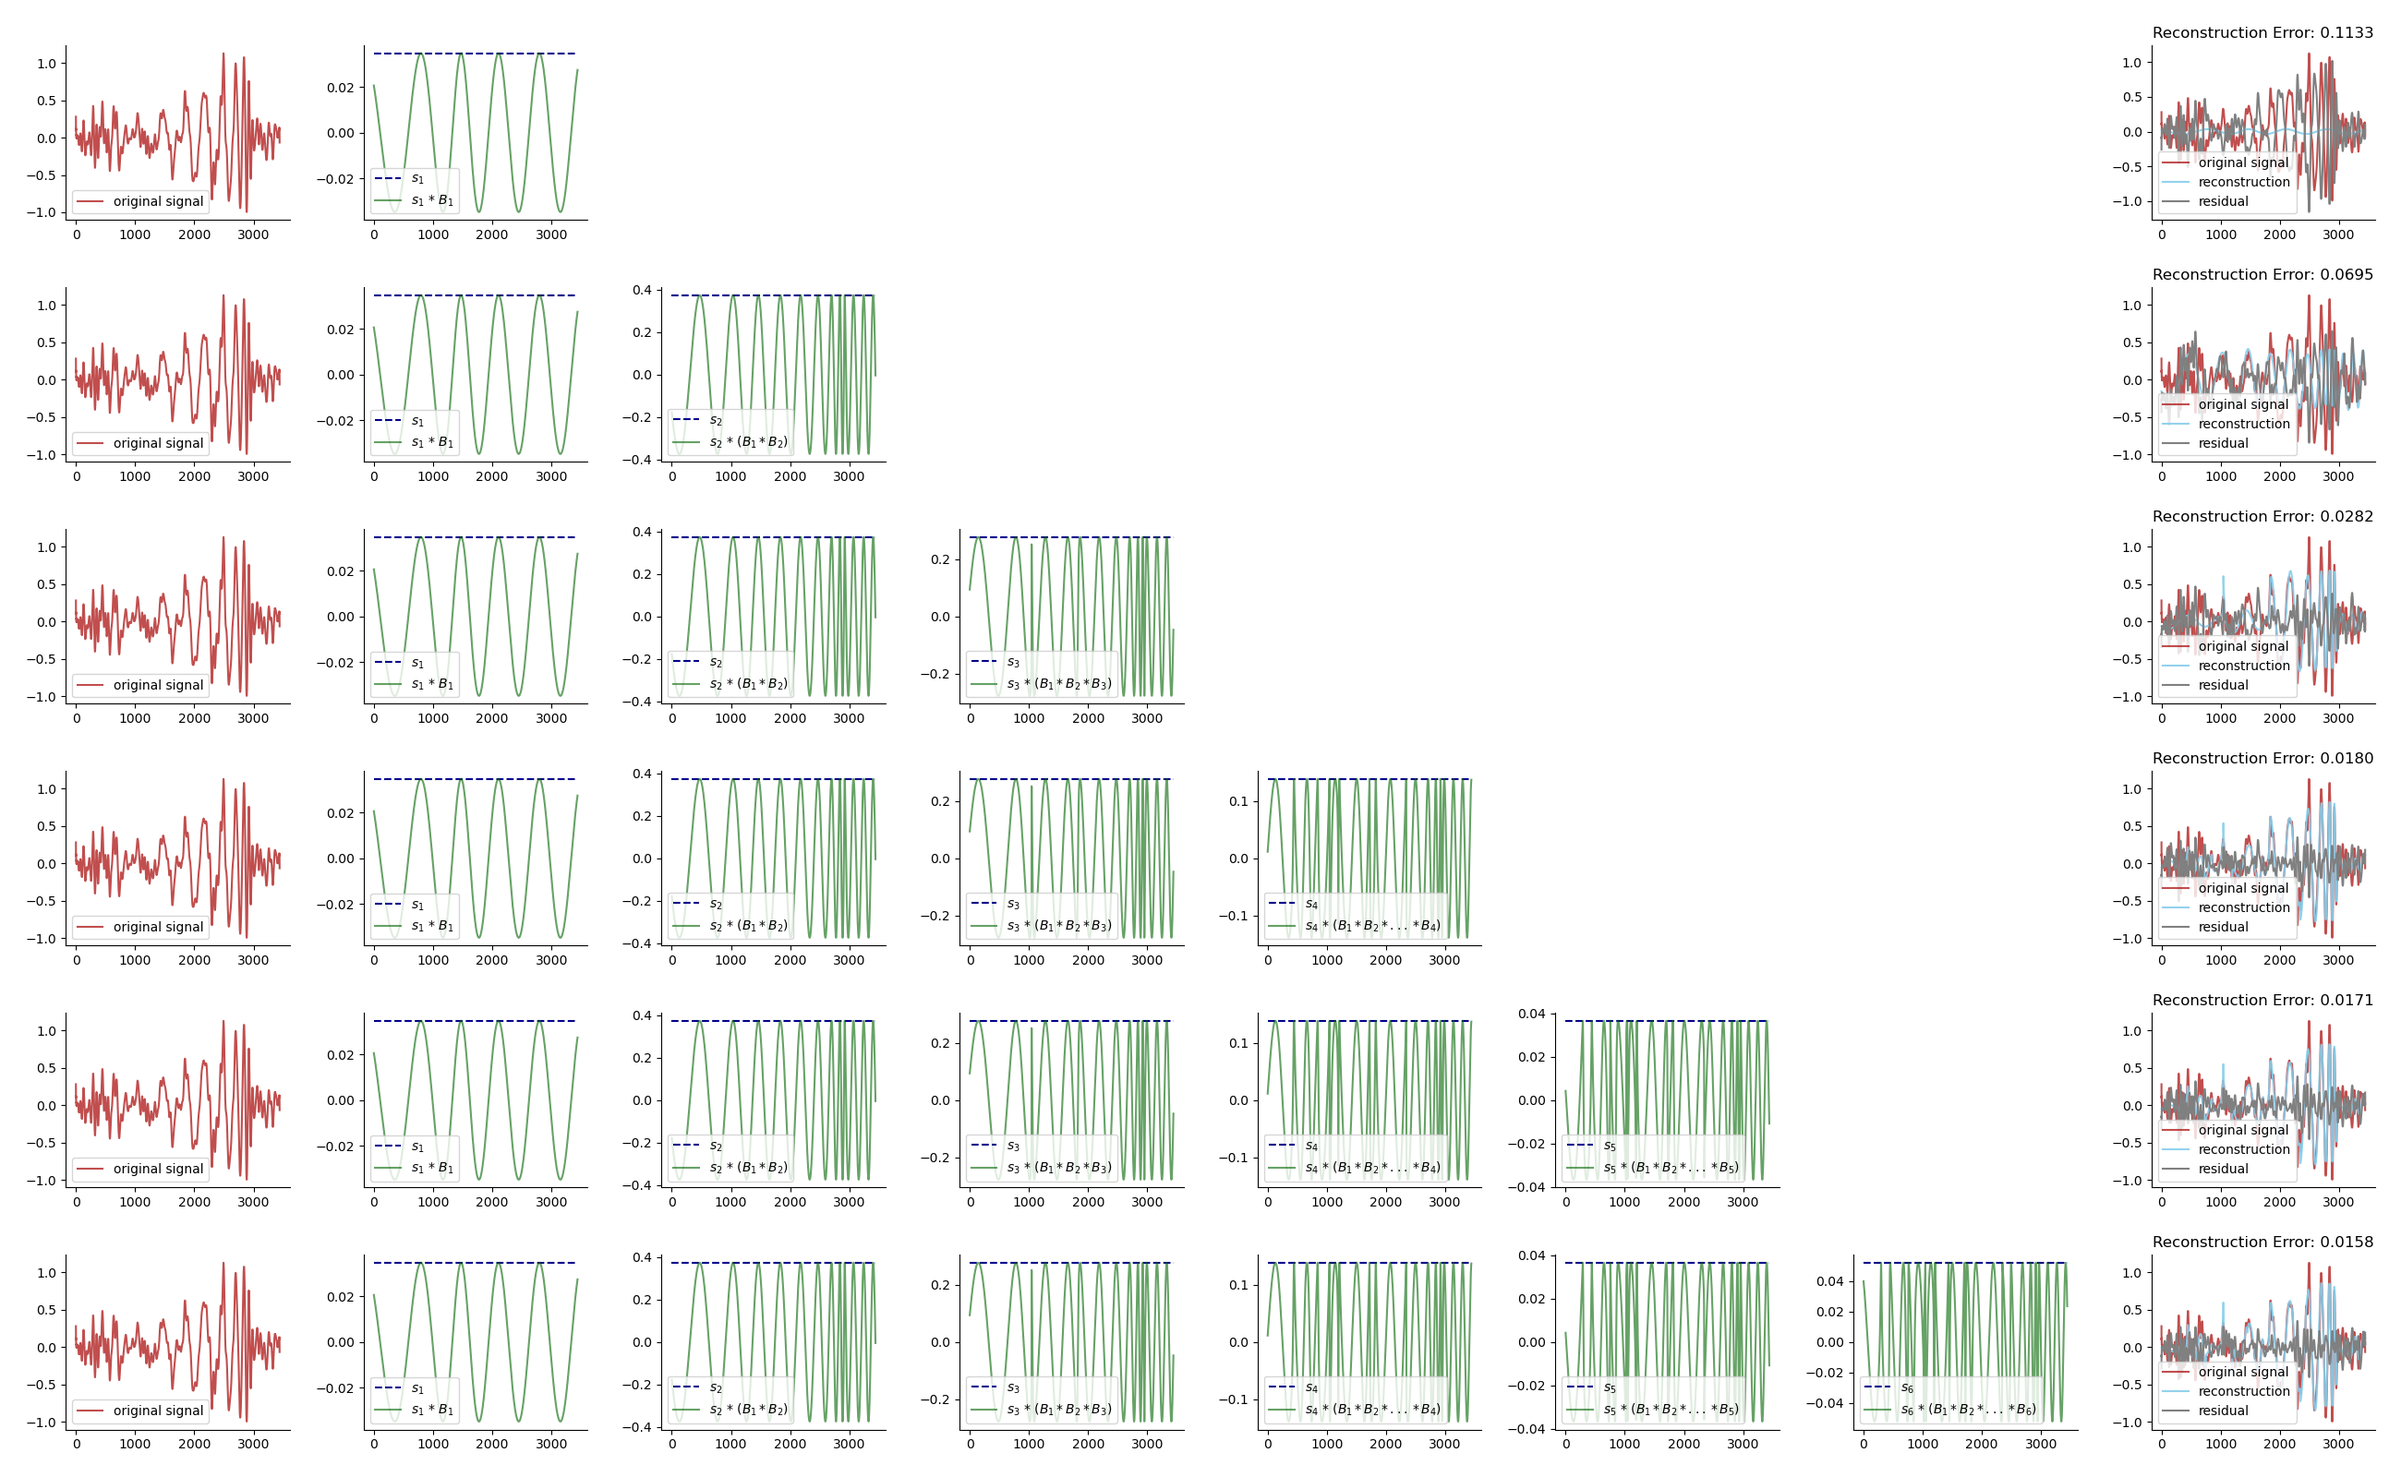
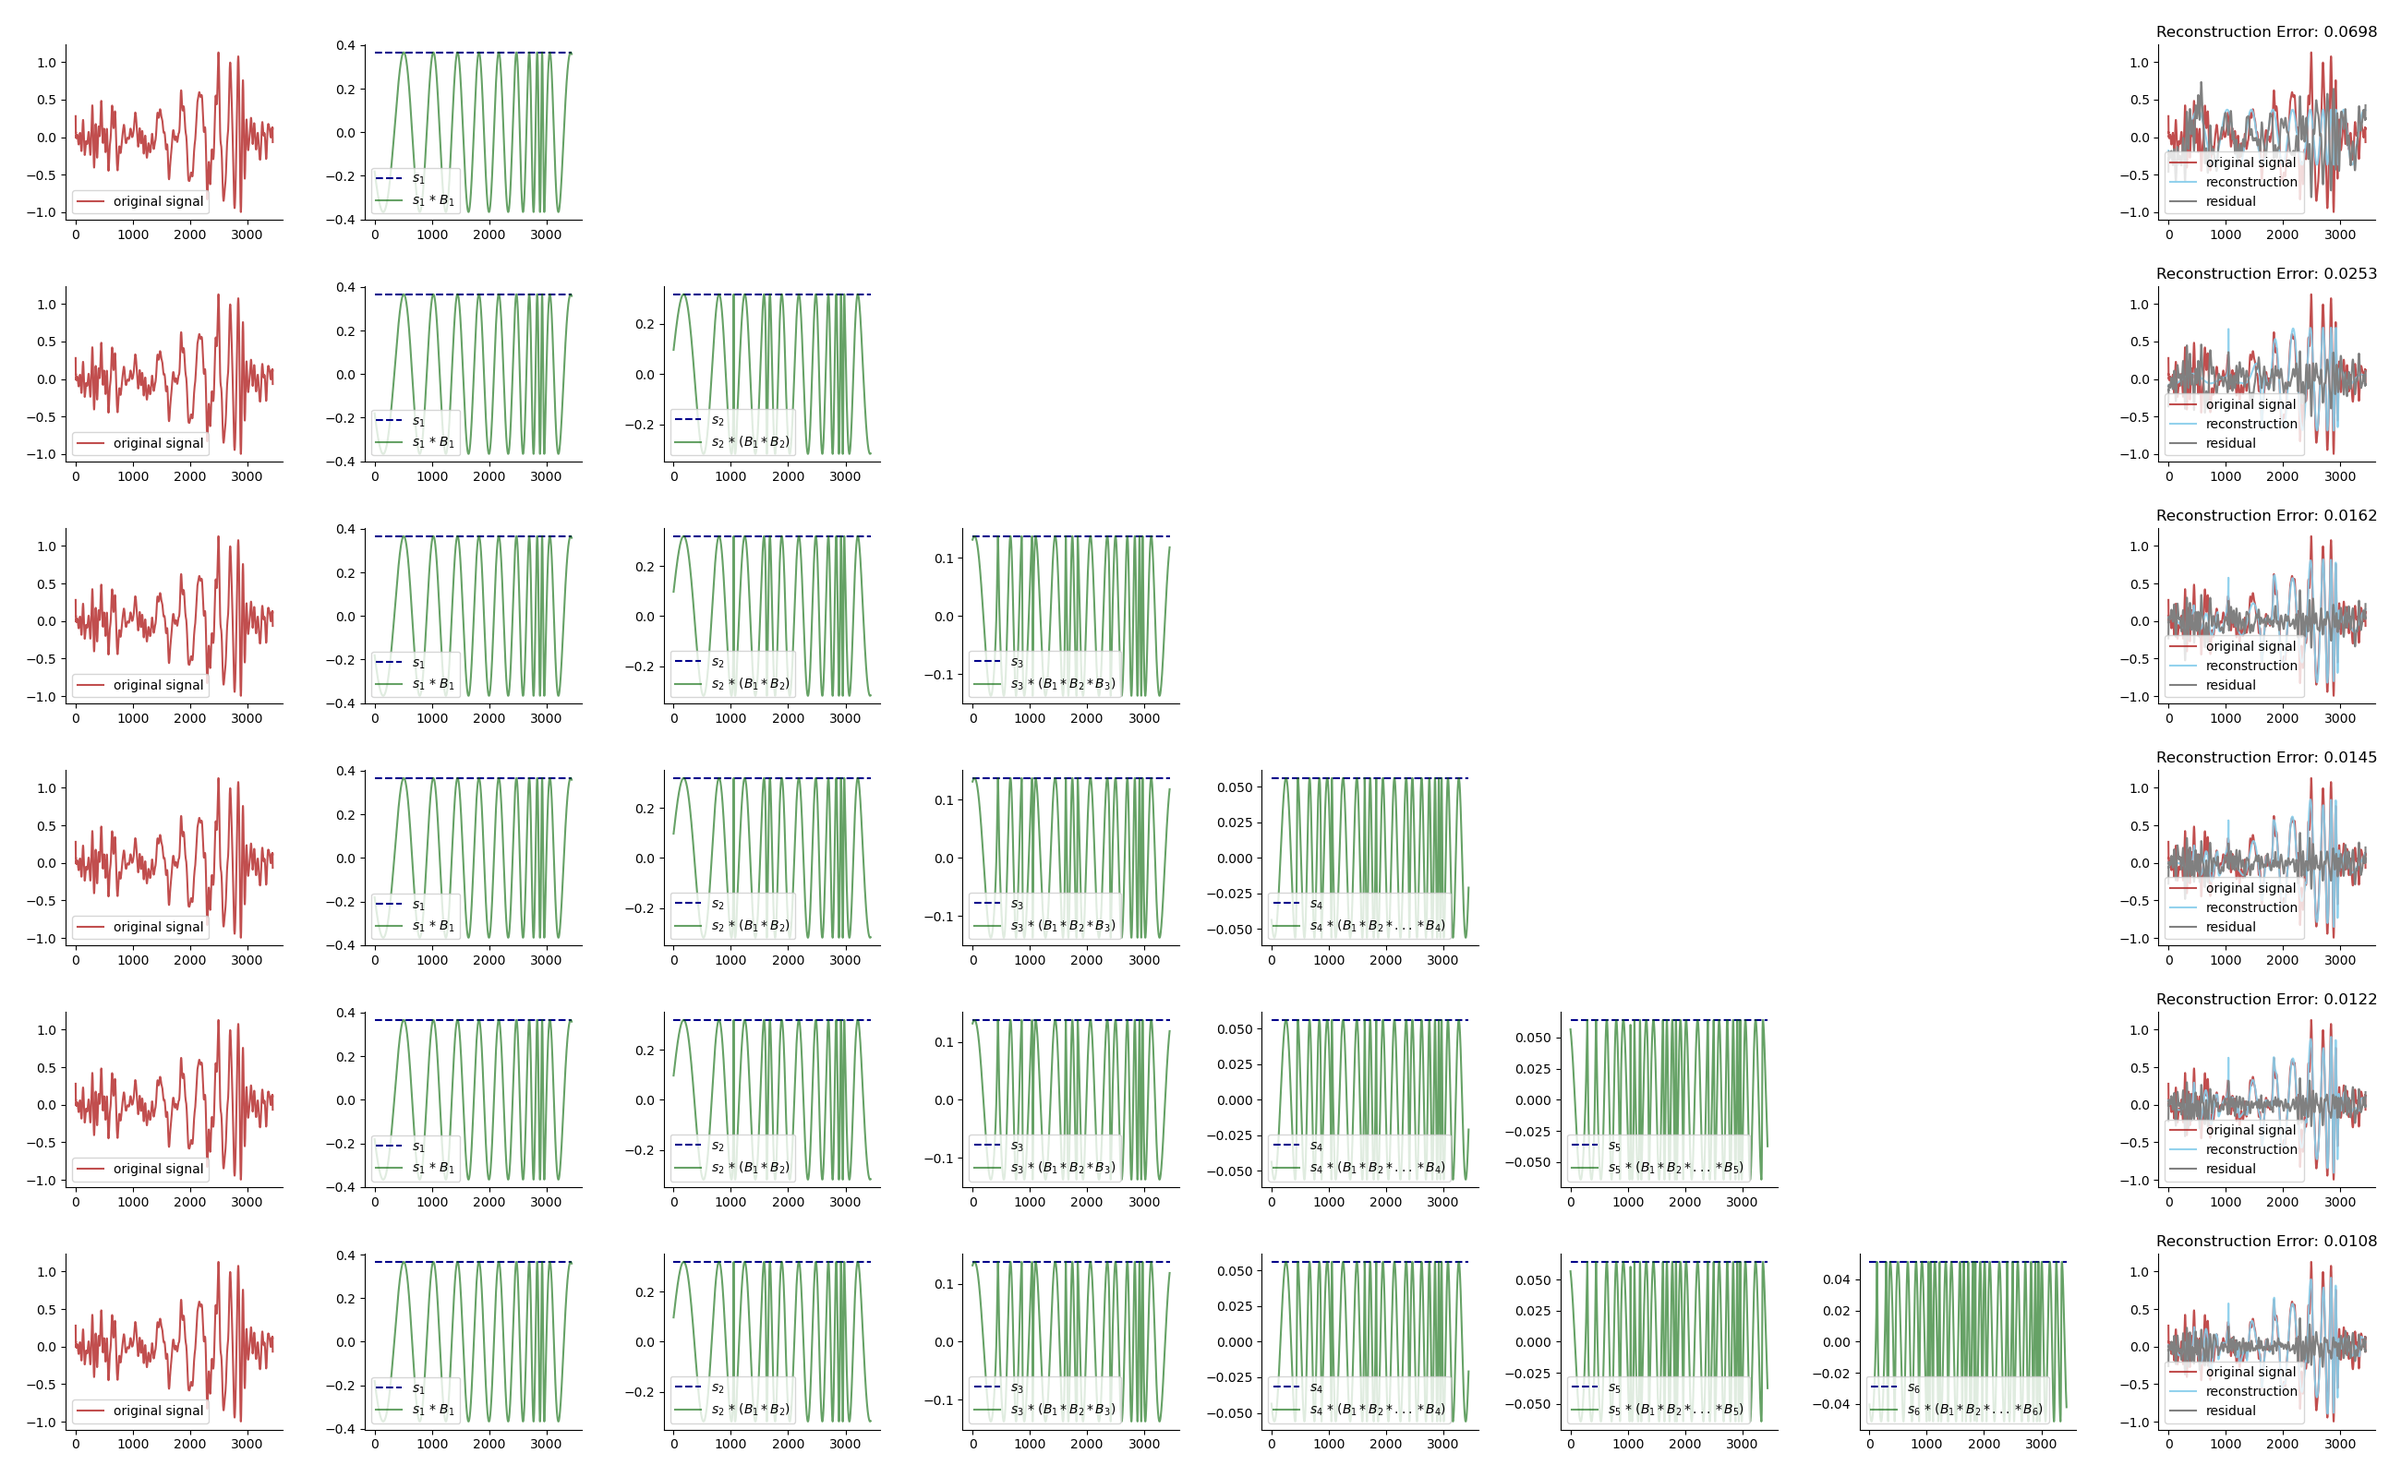
in process debugging

diff --git a/src/train_ecg_ptbxl_1d.py b/src/train_ecg_ptbxl_1d.py
@@ -49,7 +49,7 @@ def binary_entropy(batched_coeffs: torch.Tensor, eps: float = 1e-8) -> torch.Ten
 
 @torch.no_grad()
 def plot_signal_approx(signal_complex, s_arr, B_prod_arr, mode: str, epoch_idx: int, batch_idx: int):
-    signal_complex = signal_complex.detach().numpy()
+    signal_complex = signal_complex.detach().cpu().numpy()
     s_arr = s_arr.detach().numpy()
     B_prod_arr = B_prod_arr.detach().numpy()
     assert len(signal_complex.shape) == 3
@@ -60,13 +60,13 @@ def plot_signal_approx(signal_complex, s_arr, B_prod_arr, mode: str, epoch_idx: 
     blaschke_order = B_prod_arr.shape[-1]
 
     signal_complex = rearrange(signal_complex, 'b c l -> (b c) l').squeeze(0)
-    s_arr = rearrange(s_arr, 'b c l i -> (b c l) i').squeeze(0)
-    B_prod_arr = rearrange(B_prod_arr, 'b c l i -> (b c) l i').squeeze(0)
+    s_arr = rearrange(s_arr, 'b c 1 i -> (b c 1) i 1').squeeze(0)
+    B_prod_arr = rearrange(B_prod_arr, 'b c l i -> (b c) i l').squeeze(0)
+    time_arr = np.arange(signal_complex.shape[-1])
 
     fig, ax = plt.subplots(blaschke_order, blaschke_order + 2, figsize = (4 * blaschke_order + 8, 4 * blaschke_order))
     if blaschke_order == 1:
         ax = ax[np.newaxis, :]
-    time_arr = np.arange(signal_complex.shape[-1])
     for total_order in range(blaschke_order):
         ax[total_order, 0].plot(time_arr, signal_complex.real, label = 'original signal', color='firebrick', alpha=0.8)
         ax[total_order, 0].legend(loc='lower left')
@@ -76,18 +76,18 @@ def plot_signal_approx(signal_complex, s_arr, B_prod_arr, mode: str, epoch_idx: 
     for total_order in range(1, blaschke_order + 1):
         for curr_order in range(1, total_order + 1):
             ax[total_order - 1, curr_order].hlines(np.abs(s_arr[curr_order-1]), xmin=time_arr.min(), xmax=time_arr.max(), label = f'$s_{curr_order}$', color='darkblue', linestyle='--')
-            ax[total_order - 1, curr_order].plot(time_arr, (B_prod_arr[:, curr_order-1] * s_arr[curr_order-1]).real, label = f'$s_{curr_order}$ * ${display_blaschke_product(curr_order)}$', color='darkgreen', alpha=0.6)
+            ax[total_order - 1, curr_order].plot(time_arr, (B_prod_arr[curr_order-1] * s_arr[curr_order-1]).real, label = f'$s_{curr_order}$ * ${display_blaschke_product(curr_order)}$', color='darkgreen', alpha=0.6)
             ax[total_order - 1, curr_order].legend(loc='lower left')
             ax[total_order - 1, curr_order].spines['top'].set_visible(False)
             ax[total_order - 1, curr_order].spines['right'].set_visible(False)
 
     final = 0
     for curr_order in range(1, blaschke_order + 1):
-        final += (B_prod_arr[:, curr_order-1] * s_arr[curr_order-1]).real
+        final += (B_prod_arr[curr_order-1] * s_arr[curr_order-1]).real
         ax[curr_order - 1, blaschke_order + 1].plot(time_arr, signal_complex.real, label = 'original signal', color='firebrick', alpha=0.8)
         ax[curr_order - 1, blaschke_order + 1].plot(time_arr, final, label = 'reconstruction', color='skyblue', alpha=0.9)
         ax[curr_order - 1, blaschke_order + 1].plot(time_arr, final - signal_complex.real, label = 'residual', color='gray', alpha=1.0)
-        ax[curr_order - 1, blaschke_order + 1].set_title(f'Reconstruction Error: {np.power(np.abs(final - signal_complex.real), 2).mean():.4f}')
+        ax[curr_order - 1, blaschke_order + 1].set_title(f'Reconstruction Error: {np.power(np.abs(final - signal_complex.real), 2).mean():.5f}')
         ax[curr_order - 1, blaschke_order + 1].legend(loc='lower left')
         ax[curr_order - 1, blaschke_order + 1].spines['top'].set_visible(False)
         ax[curr_order - 1, blaschke_order + 1].spines['right'].set_visible(False)
@@ -264,10 +264,11 @@ def main(args):
 
     if not os.path.isfile(args.model_save_path):
         optimizer = torch.optim.AdamW(model.parameters(), lr=args.lr, weight_decay=1e-4)
-        scheduler = LinearWarmupCosineAnnealingLR(optimizer=optimizer,
-                                                warmup_start_lr=args.lr * 1e-3,
-                                                warmup_epochs=min(20, args.epoch//5),
-                                                max_epochs=args.epoch)
+        scheduler = LinearWarmupCosineAnnealingLR(
+            optimizer=optimizer,
+            warmup_start_lr=args.lr * 1e-3,
+            warmup_epochs=min(20, args.epoch//5),
+            max_epochs=args.epoch)
 
         log('Training begins.', filepath=args.log_path)
         best_auroc = 0
@@ -278,7 +279,7 @@ def main(args):
             for epoch_idx, epoch in enumerate(pbar):
                 # Training.
                 model.train()
-                train_loss_pred, train_loss_recon, train_loss_binary, train_loss_binary, train_acc, train_auroc = \
+                train_loss_pred, train_loss_recon, train_loss_binary, train_acc, train_auroc = \
                     train_epoch(train_loader=train_loader, model=model, optimizer=optimizer, loss_fn_pred=loss_fn_pred, num_classes=num_classes, device=device, epoch_idx=epoch_idx)
                 train_loss_pred_list.append(train_loss_pred)
                 train_loss_recon_list.append(train_loss_recon)
@@ -357,8 +358,8 @@ if __name__ == '__main__':
     parser.add_argument('--batch-size', type=int, default=128)
     parser.add_argument('--epoch', type=int, default=40)
     parser.add_argument('--n-plot-per-epoch', type=int, default=1)
-    parser.add_argument('--loss-recon-coeff', type=float, default=10)
-    parser.add_argument('--loss-binary-coeff', type=float, default=100)           # Encourages root selectors (gammas) to be binary.
+    parser.add_argument('--loss-recon-coeff', type=float, default=1)
+    parser.add_argument('--loss-binary-coeff', type=float, default=1)             # Encourages root selectors (gammas) to be binary.
     parser.add_argument('--num-workers', type=int, default=8)
     parser.add_argument('--random-seed', type=int, default=1)
     parser.add_argument('--subset', type=str, default='super_class')

diff --git a/src/models/BN1d.py b/src/models/BN1d.py
@@ -123,9 +123,16 @@ class BlaschkeLayer1d(nn.Module):
         assert len(signal_complex.shape) == 3
         x_real = torch.real(signal_complex)                                   # [batch_size, num_channels, seq_len]
         x_imag = torch.imag(signal_complex)                                   # [batch_size, num_channels, seq_len]
-        signal = torch.stack((x_real, x_imag), dim=2).float()                 # [batch_size, num_channels, 2, seq_len]
 
-        signal = rearrange(signal, 'b c r l -> (b c) r l')                    # [batch_size * num_channels, 2, seq_len]
+        # signal_real_fft = torch.fft.rfft(x_real, n=2*L-1, dim=-1)             # [batch_size, num_channels, seq_len * 2]
+        # x_fft_real = torch.real(signal_real_fft)                              # [batch_size, num_channels, seq_len]
+        # x_fft_imag = torch.imag(signal_real_fft)                              # [batch_size, num_channels, seq_len]
+
+        # signal = torch.stack((x_real, x_imag,
+        #                       x_fft_real, x_fft_imag), dim=2).float()         # [batch_size, num_channels, 4, seq_len]
+        signal = torch.stack((x_real, x_imag), dim=2).float()         # [batch_size, num_channels, 2, seq_len]
+
+        signal = rearrange(signal, 'b c r l -> (b c) r l')                    # [batch_size * num_channels, 4, seq_len]
         assert len(signal.shape) == 3
 
         if any_requires_grad(self.param_net):
@@ -147,7 +154,7 @@ class BlaschkeLayer1d(nn.Module):
         '''
         betas have to be positive.
         '''
-        return torch.exp(self.log_betas)
+        return torch.nn.functional.softplus(self.log_betas)
 
     @property
     def gammas(self):
@@ -304,7 +311,7 @@ class BlaschkeNetwork1d(nn.Module):
         # 3 per root (alpha, log_beta, gamma), 2 per iteration: (scale_real, scale_imag).
         num_classes = self.num_roots * 3 + 2
         param_net = PatchTST(
-            num_channels=2,  # (real, imaginary)
+            num_channels=2,  # (real signal, hilbert transform, fft_real, fft_imag)
             num_classes=num_classes,
             patch_size=patch_size,
             num_patch=signal_len // patch_size,
@@ -512,9 +519,9 @@ class BlaschkeNetwork1d(nn.Module):
 
             # Track the mean scale per layer.
             if mean_scale is None:
-                mean_scale = layer.scale.detach().cpu().mean().unsqueeze(0)
+                mean_scale = layer.scale.detach().cpu().mean().unsqueeze(0).abs()
             else:
-                mean_scale = torch.cat((mean_scale, layer.scale.detach().cpu().mean().unsqueeze(0)), dim=0)
+                mean_scale = torch.cat((mean_scale, layer.scale.detach().cpu().mean().unsqueeze(0).abs()), dim=0)
 
             # Track the ratio of active roots per layer.
             active_roots = (layer.logit_gammas > 0).sum().cpu().detach()
@@ -553,5 +560,5 @@ class BlaschkeNetwork1d(nn.Module):
 if __name__ == '__main__':
     model = BlaschkeNetwork1d(layers=3, num_roots=4, signal_len=100, num_channels=10, patch_size=20)
     signal = torch.normal(0, 1, size=(32, 10, 100))
-    y, residual_sqnorm, active_roots_ratio = model(signal)
+    y, residual_sqnorm, gamma_deviation, mean_scale, active_roots_ratio = model(signal)
     signal_complex, s_arr, B_prod_arr = model.test_approximate(signal[:1, :1, :])

diff --git a/src/analytical/fitting_parameter_1D.py b/src/analytical/fitting_parameter_1D.py
@@ -57,7 +57,7 @@ class BlaschkeParams(torch.nn.Module):
         '''
         betas have to be positive.
         '''
-        return torch.exp(self.log_betas)
+        return torch.nn.functional.softplus(self.log_betas)
 
     @property
     def gammas(self):
@@ -216,7 +216,6 @@ if __name__ == '__main__':
     # Load the signal.
     test_signal_file = '../../data/gravitational_wave_HanfordH1.txt'
     signal_df = pd.read_csv(test_signal_file, sep=' ', header=None)
-    time_arr = np.array(signal_df[0]) - np.min(signal_df[0])
     signal_arr = np.array(signal_df[1])
 
     # Parameters for Blaschke decomposition.
@@ -225,7 +224,7 @@ if __name__ == '__main__':
     num_epochs = 3000
     learning_rate = 1e-2
     detach_by_iter = False
-    coeff_binary = 10                        # Encourages root selectors (gammas) to be binary.
+    coeff_binary = 1                         # Encourages root selectors (gammas) to be binary.
 
     device = torch.device("cuda" if torch.cuda.is_available() else "cpu")
 
@@ -245,15 +244,15 @@ if __name__ == '__main__':
             residual_sqnorm, gamma_deviation, blaschke_product, mean_scale, active_roots_ratio = \
                 run_sample(model_input=model_input, model=model, blaschke_order=blaschke_order, detach_by_iter=detach_by_iter)
             loss_recon = residual_sqnorm.mean()
-            loss_binary = gamma_deviation.mean()
-            loss = loss_recon + loss_binary * coeff_binary
+            loss_binary = gamma_deviation.mean() * coeff_binary
+            loss = loss_recon + loss_binary
 
             optimizer.zero_grad()
             loss.backward()
             optimizer.step()
 
             pbar.set_postfix(loss_recon=f'{loss_recon:.5f}',
-                             loss_binary_scaled=f'{loss_binary * coeff_binary:.5f}',
+                             loss_binary_scaled=f'{loss_binary:.5f}',
                              active_roots_ratio=f'{active_roots_ratio}')
 
     plot_signal_approx(signal_complex=signal_complex,

diff --git a/src/models/patchTST.py b/src/models/patchTST.py
@@ -74,22 +74,31 @@ class PatchTST(nn.Module):
         return z
 
 
+def zero_module(module):
+    '''
+    Zero out the parameters of a module and return it.
+    '''
+    for p in module.parameters():
+        p.detach().zero_()
+    return module
+
+
 class ClassificationHead(nn.Module):
     def __init__(self, num_channels, d_model, n_classes, head_dropout):
         super().__init__()
         self.flatten = nn.Flatten(start_dim=1)
         self.dropout = nn.Dropout(head_dropout)
-        self.linear = nn.Linear(num_channels * d_model, n_classes)
+        self.linear = zero_module(nn.Linear(num_channels * d_model, n_classes))
 
     def forward(self, x):
         '''
         x: [bs, num_channels, d_model, num_patch]
         output: [bs, n_classes]
         '''
-        x = x[:, :, :, -1]             # x: [bs, num_channels, d_model]
-        x = self.flatten(x)            # x: [bs, num_channels * d_model]
-        x = self.dropout(x)            # x: [bs, num_channels * d_model]
-        y = self.linear(x)             # y: [bs, n_classes]
+        x = x[:, :, :, -1]              # x: [bs, num_channels, d_model]
+        x = self.flatten(x)             # x: [bs, num_channels * d_model]
+        x = self.dropout(x)             # x: [bs, num_channels * d_model]
+        y = self.linear(x)              # y: [bs, n_classes]
         return y
 
 class PatchTSTEncoder(nn.Module):

diff --git a/src/dataset/ecg_datasets.py b/src/dataset/ecg_datasets.py
@@ -118,7 +118,9 @@ class ECGDataset(Dataset):
         # In downstream datasets, the lead order is I, II, III, aVR, aVL, aVF, V1, V2, V3, V4, V5, V6
         ecg[[4, 5]] = ecg[[5, 4]]
 
-
+        # Preprocessing: zero mean, unit variance.
+        ecg = ecg - ecg.mean(dim=1, keepdims=True)
+        ecg = ecg / (ecg.std(dim=1, keepdims=True) + 1e-6)
 
         return ecg, target
 
